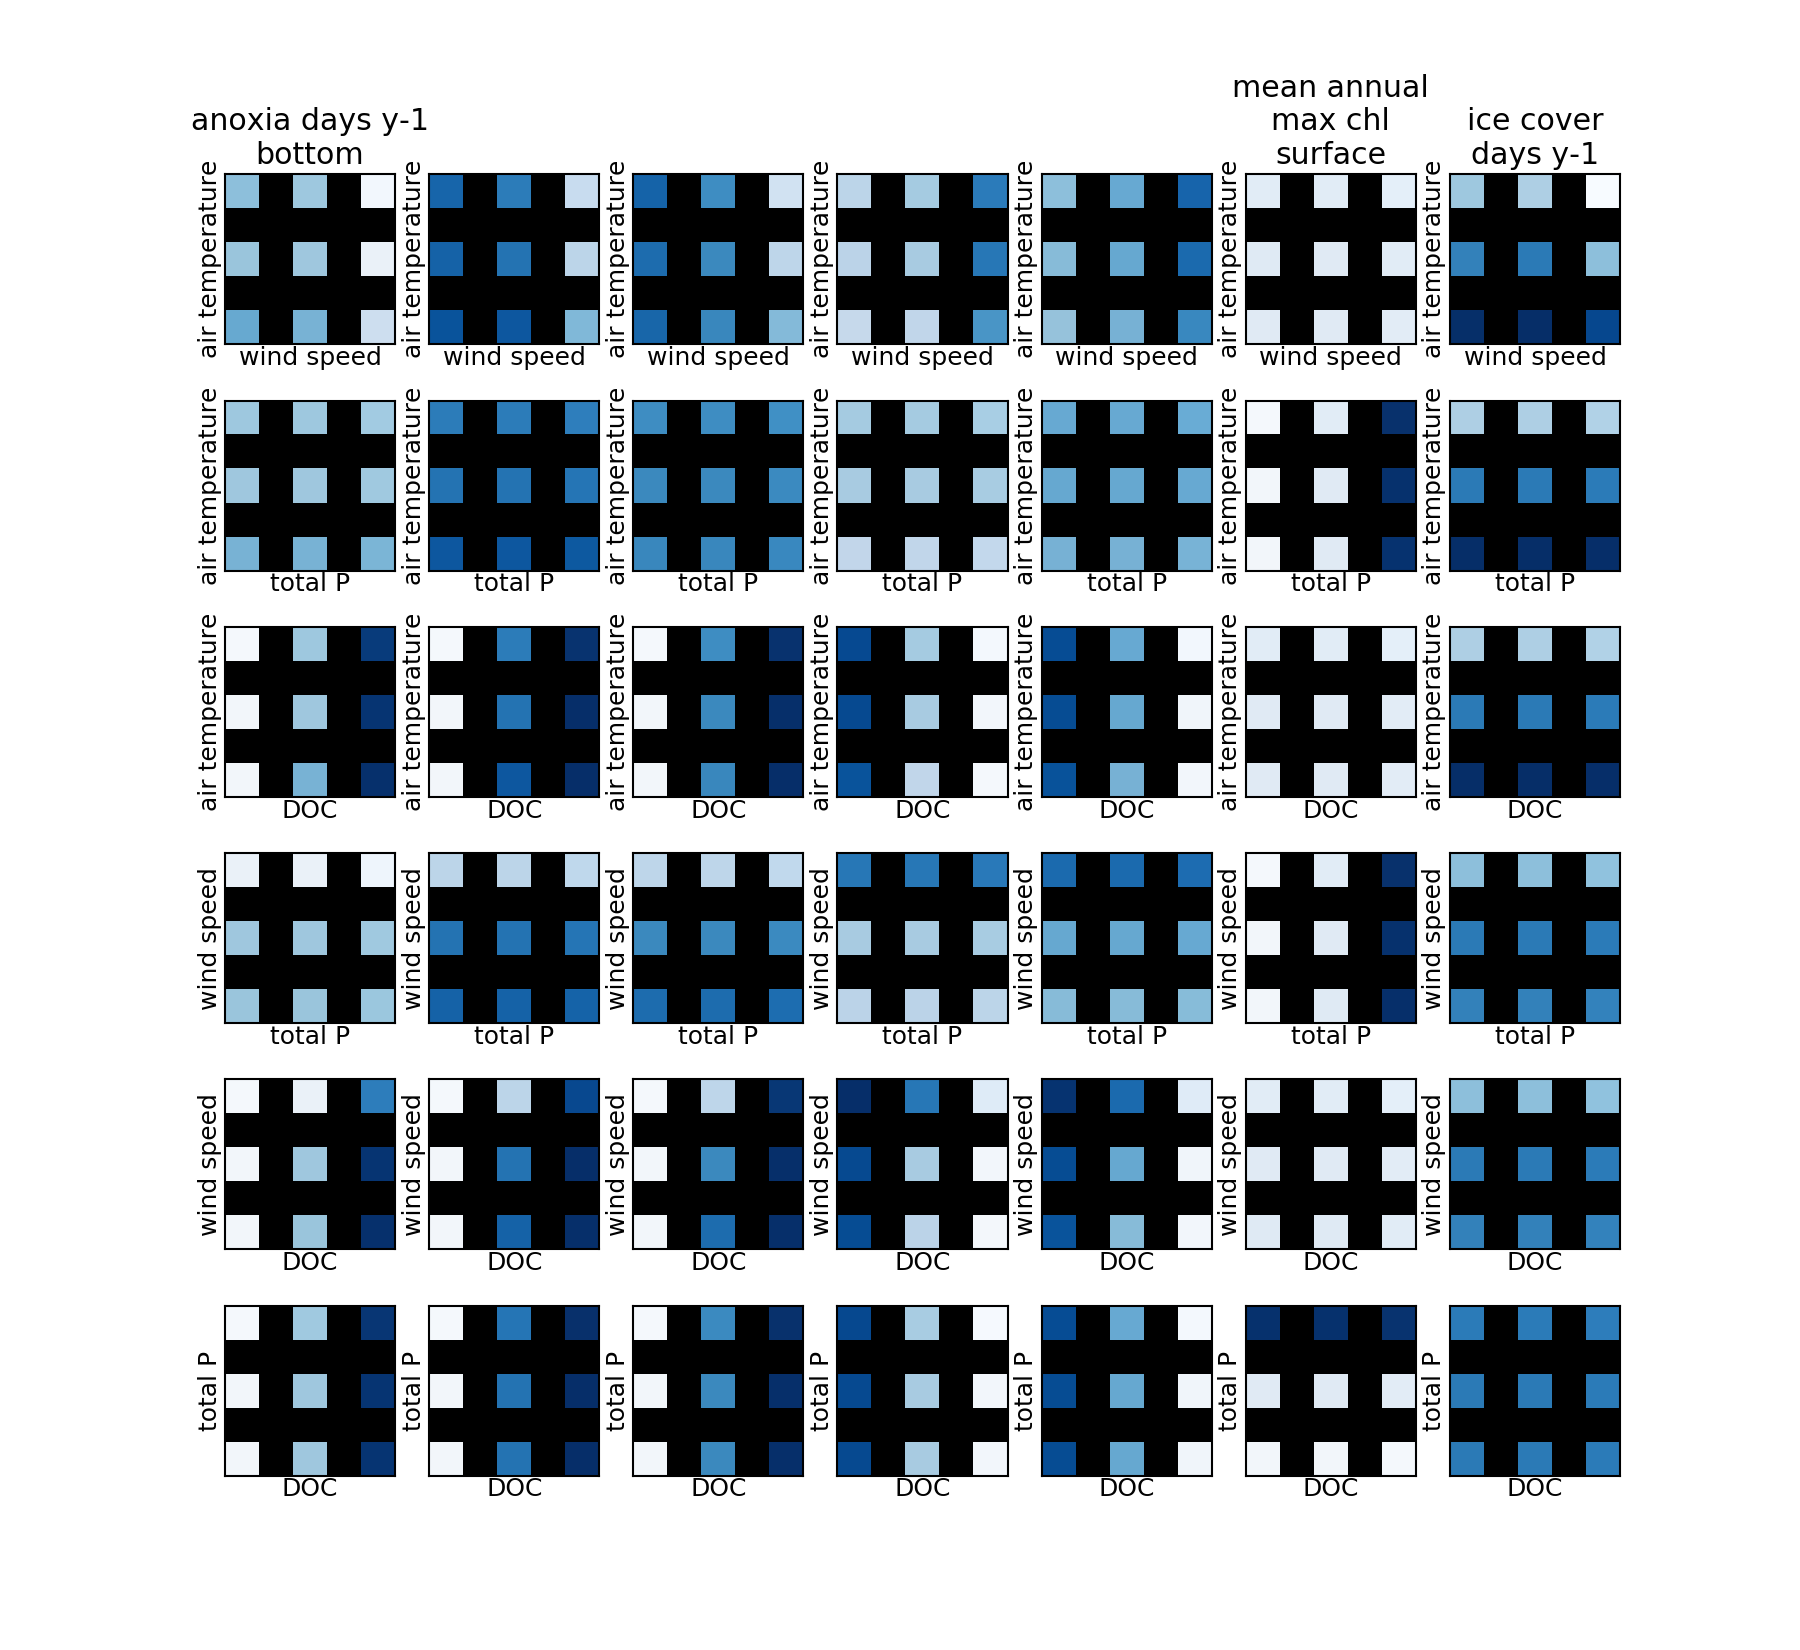
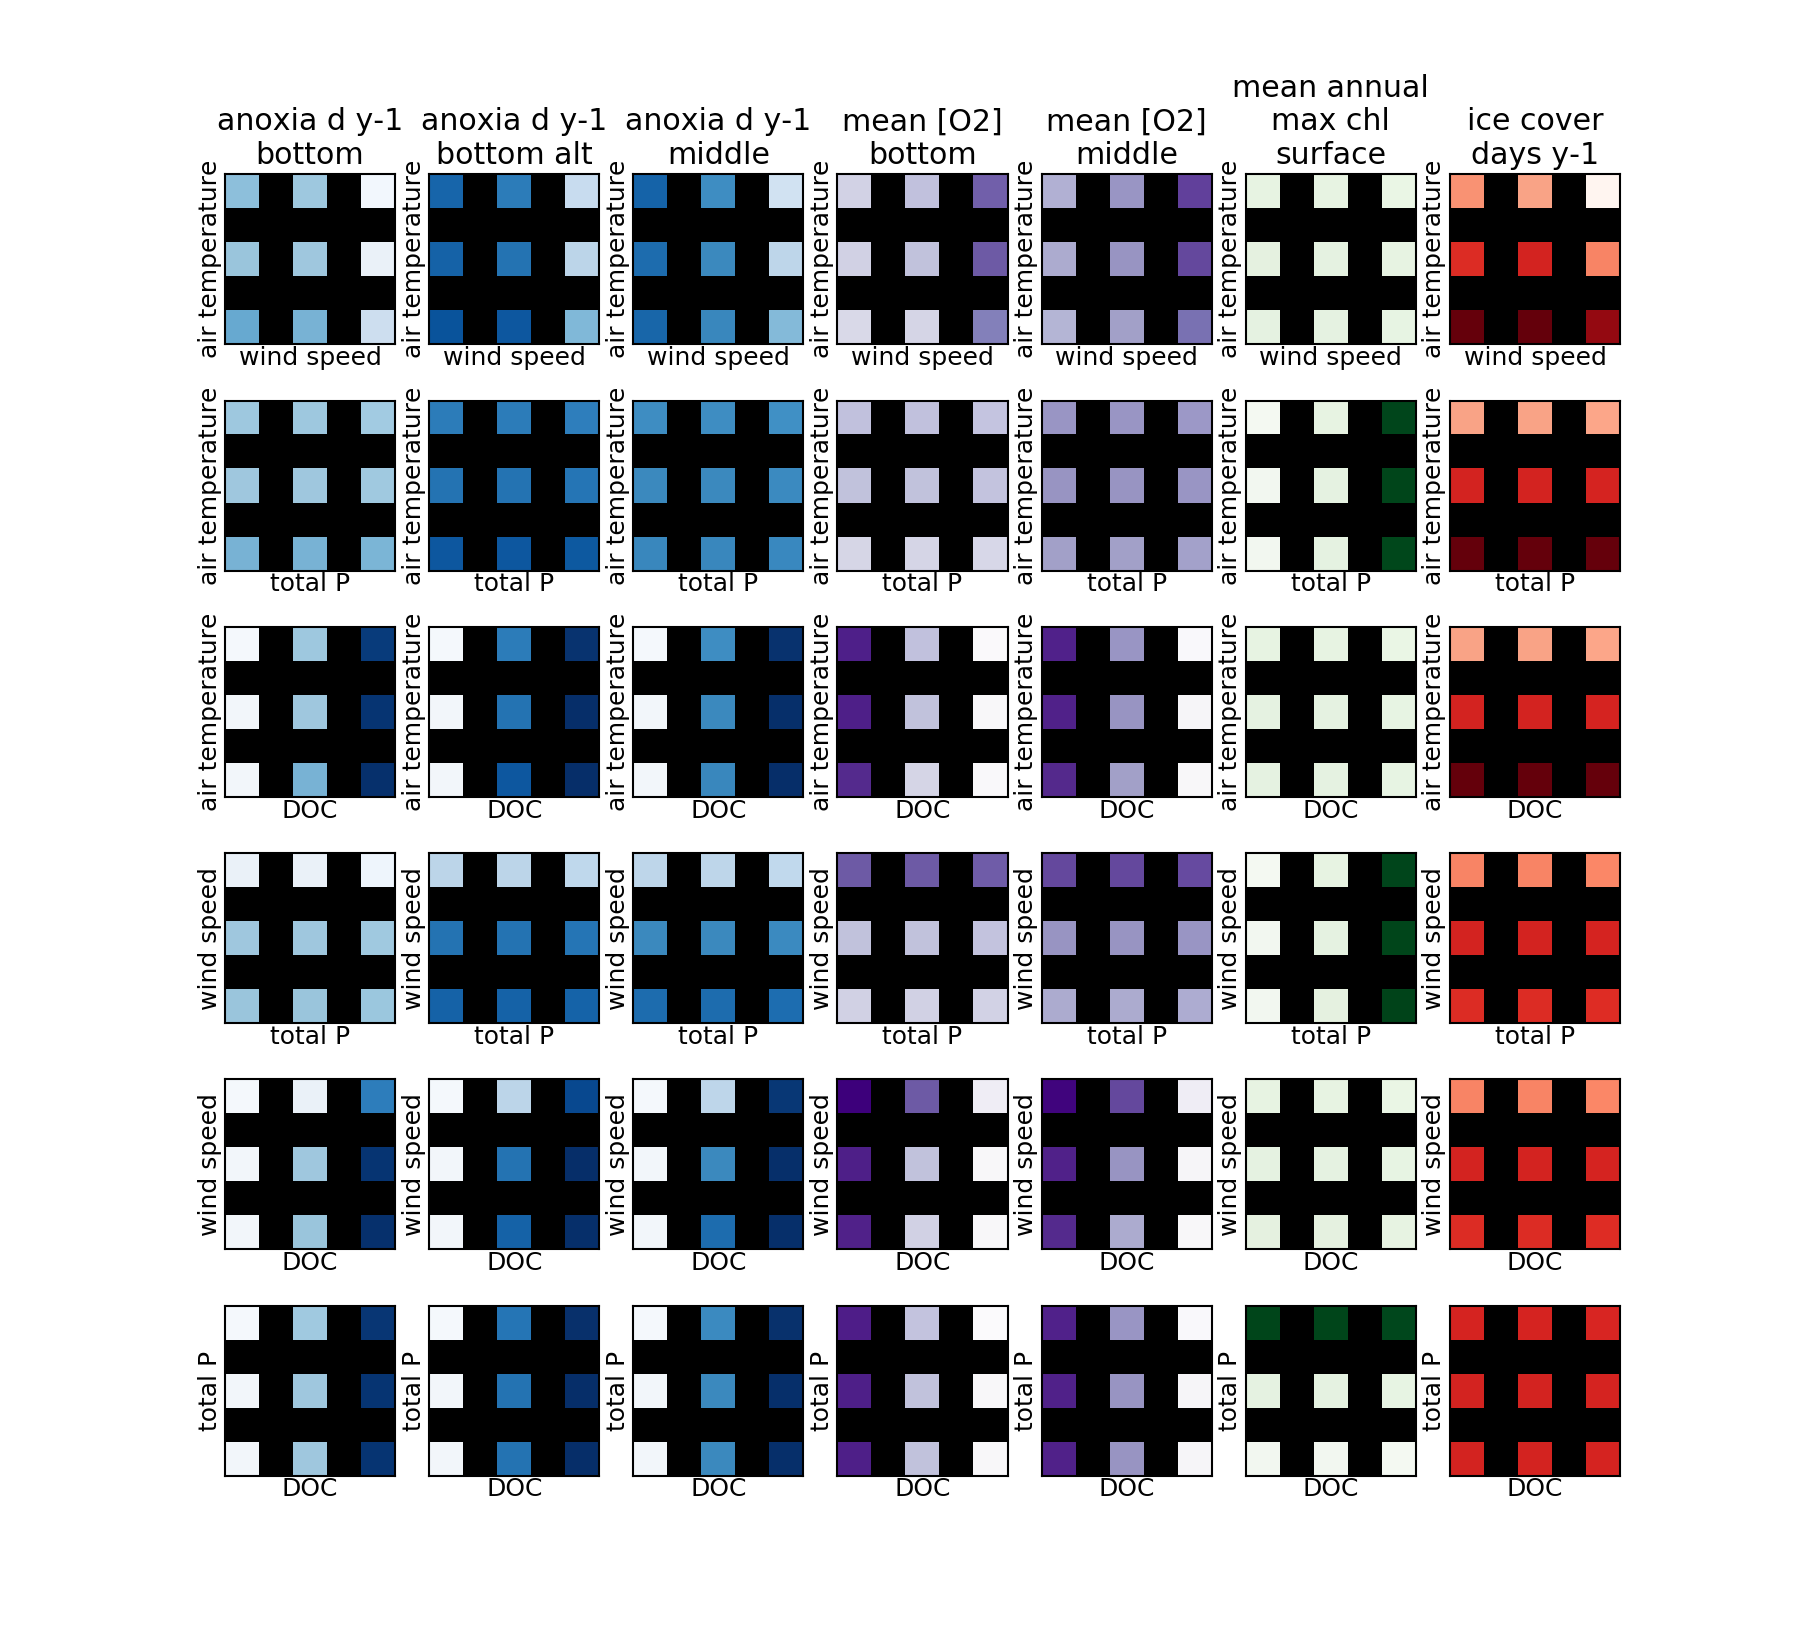
tidier pp.py

diff --git a/simulations/08_4dim_4res/postprocessing/pp.py b/simulations/08_4dim_4res/postprocessing/pp.py
@@ -30,10 +30,10 @@ m = np.zeros((n1, n2, n3, n4, nr), dtype=bool)
 d = pd.read_csv('../intermediate/parameterdict.csv')
 
 for i, x1, x2, x3, x4, id in d.itertuples():
-    if i % 100 == 100:
+    if i % 100 == 0:
         print(i)
     if not os.path.exists('../simulations/id/{:05d}/t.csv.bz2'.format(id)):
-        print(i, x1, x2, x3, x4, id)
+        # print(i, x1, x2, x3, x4, id)
         continue
 
     # if id == 573:
@@ -97,23 +97,6 @@ y = np.arange(5)
 X, Y = np.meshgrid(x, y)
 
 
-min0 = np.nanmin(a[:, :, :, :, 0])
-max0 = np.nanmax(a[:, :, :, :, 0])
-min1 = np.nanmin(a[:, :, :, :, 1])
-max1 = np.nanmax(a[:, :, :, :, 1])
-min2 = np.nanmin(a[:, :, :, :, 2])
-max2 = np.nanmax(a[:, :, :, :, 2])
-min3 = np.nanmin(a[:, :, :, :, 3])
-max3 = np.nanmax(a[:, :, :, :, 3])
-min4 = np.nanmin(a[:, :, :, :, 4])
-max4 = np.nanmax(a[:, :, :, :, 4])
-min5 = np.nanmin(a[:, :, :, :, 5])
-max5 = np.nanmax(a[:, :, :, :, 5])
-min6 = np.nanmin(a[:, :, :, :, 6])
-max6 = np.nanmax(a[:, :, :, :, 6])
-
-
-
 def rs(ax, thisa, cmapname, thismin, thismax, thisfmt, label1st, label2nd):
     img = ax.imshow(thisa, cmap=plt.get_cmap(cmapname), 
                     norm=matplotlib.colors.Normalize(thismin, thismax, True), 
@@ -125,100 +108,39 @@ def rs(ax, thisa, cmapname, thismin, thismax, thisfmt, label1st, label2nd):
     ax.text(2.0, -0.9, label2nd, ha='center', va='center') ; 
     ax.text(-0.6, 2.0, label1st, va='center', ha='right', rotation='vertical')
 
-    
+def plotrs6(rsi, nr, aa, colorcode, fmt, n) :
+    '''returns 6 axes'''
+    axes = [plt.subplot2grid((6, nr), (i, rsi)) for i in range(6)]
+    mi = np.nanmin(aa)
+    ma = np.nanmax(aa)
+    rs(axes[0], aa[:, :, 2, 2], colorcode, mi, ma, fmt, n[0], n[1])
+    rs(axes[1], aa[:, 2, :, 2], colorcode, mi, ma, fmt, n[0], n[2])
+    rs(axes[2], aa[:, 2, 2, :], colorcode, mi, ma, fmt, n[0], n[3]) 
+    rs(axes[3], aa[2, :, :, 2], colorcode, mi, ma, fmt, n[1], n[2])
+    rs(axes[4], aa[2, :, 2, :], colorcode, mi, ma, fmt, n[1], n[3])
+    rs(axes[5], aa[2, 2, :, :], colorcode, mi, ma, fmt, n[2], n[3])
+    return axes
+
 plt.clf()
 fig = plt.figure()
-a00 = plt.subplot2grid((6, nr), (0, 0))
-a01 = plt.subplot2grid((6, nr), (1, 0))
-a02 = plt.subplot2grid((6, nr), (2, 0))
-a03 = plt.subplot2grid((6, nr), (3, 0))
-a04 = plt.subplot2grid((6, nr), (4, 0))
-a05 = plt.subplot2grid((6, nr), (5, 0))
-a10 = plt.subplot2grid((6, nr), (0, 1))
-a11 = plt.subplot2grid((6, nr), (1, 1))
-a12 = plt.subplot2grid((6, nr), (2, 1))
-a13 = plt.subplot2grid((6, nr), (3, 1))
-a14 = plt.subplot2grid((6, nr), (4, 1))
-a15 = plt.subplot2grid((6, nr), (5, 1))
-a20 = plt.subplot2grid((6, nr), (0, 2))
-a21 = plt.subplot2grid((6, nr), (1, 2))
-a22 = plt.subplot2grid((6, nr), (2, 2))
-a23 = plt.subplot2grid((6, nr), (3, 2))
-a24 = plt.subplot2grid((6, nr), (4, 2))
-a25 = plt.subplot2grid((6, nr), (5, 2))
-a30 = plt.subplot2grid((6, nr), (0, 3))
-a31 = plt.subplot2grid((6, nr), (1, 3))
-a32 = plt.subplot2grid((6, nr), (2, 3))
-a33 = plt.subplot2grid((6, nr), (3, 3))
-a34 = plt.subplot2grid((6, nr), (4, 3))
-a35 = plt.subplot2grid((6, nr), (5, 3))
-a40 = plt.subplot2grid((6, nr), (0, 4))
-a41 = plt.subplot2grid((6, nr), (1, 4))
-a42 = plt.subplot2grid((6, nr), (2, 4))
-a43 = plt.subplot2grid((6, nr), (3, 4))
-a44 = plt.subplot2grid((6, nr), (4, 4))
-a45 = plt.subplot2grid((6, nr), (5, 4))
-a50 = plt.subplot2grid((6, nr), (0, 5))
-a51 = plt.subplot2grid((6, nr), (1, 5))
-a52 = plt.subplot2grid((6, nr), (2, 5))
-a53 = plt.subplot2grid((6, nr), (3, 5))
-a54 = plt.subplot2grid((6, nr), (4, 5))
-a55 = plt.subplot2grid((6, nr), (5, 5))
-a60 = plt.subplot2grid((6, nr), (0, 6))
-a61 = plt.subplot2grid((6, nr), (1, 6))
-a62 = plt.subplot2grid((6, nr), (2, 6))
-a63 = plt.subplot2grid((6, nr), (3, 6))
-a64 = plt.subplot2grid((6, nr), (4, 6))
-a65 = plt.subplot2grid((6, nr), (5, 6))
 
 n = ['air temperature', 'wind speed', 'total P', 'DOC']
 
-rs(a00, a[:, :, 2, 2, 0], 'Blues', min0, max0, '%.f', n[0], n[1])
-rs(a01, a[:, 2, :, 2, 0], 'Blues', min0, max0, '%.f', n[0], n[2])
-rs(a02, a[:, 2, 2, :, 0], 'Blues', min0, max0, '%.f', n[0], n[3]) 
-rs(a03, a[2, :, :, 2, 0], 'Blues', min0, max0, '%.f', n[1], n[2])
-rs(a04, a[2, :, 2, :, 0], 'Blues', min0, max0, '%.f', n[1], n[3])
-rs(a05, a[2, 2, :, :, 0], 'Blues', min0, max0, '%.f', n[2], n[3])
-rs(a10, a[:, :, 2, 2, 1], 'Blues', min1, max1, '%.f', n[0], n[1])
-rs(a11, a[:, 2, :, 2, 1], 'Blues', min1, max1, '%.f', n[0], n[2])
-rs(a12, a[:, 2, 2, :, 1], 'Blues', min1, max1, '%.f', n[0], n[3]) 
-rs(a13, a[2, :, :, 2, 1], 'Blues', min1, max1, '%.f', n[1], n[2])
-rs(a14, a[2, :, 2, :, 1], 'Blues', min1, max1, '%.f', n[1], n[3])
-rs(a15, a[2, 2, :, :, 1], 'Blues', min1, max1, '%.f', n[2], n[3])
-rs(a20, a[:, :, 2, 2, 2], 'Blues', min2, max2, '%.f', n[0], n[1])
-rs(a21, a[:, 2, :, 2, 2], 'Blues', min2, max2, '%.f', n[0], n[2])
-rs(a22, a[:, 2, 2, :, 2], 'Blues', min2, max2, '%.f', n[0], n[3]) 
-rs(a23, a[2, :, :, 2, 2], 'Blues', min2, max2, '%.f', n[1], n[2])
-rs(a24, a[2, :, 2, :, 2], 'Blues', min2, max2, '%.f', n[1], n[3])
-rs(a25, a[2, 2, :, :, 2], 'Blues', min2, max2, '%.f', n[2], n[3])
-rs(a30, a[:, :, 2, 2, 3], 'Blues', min3, max3, '%.f', n[0], n[1])
-rs(a31, a[:, 2, :, 2, 3], 'Blues', min3, max3, '%.f', n[0], n[2])
-rs(a32, a[:, 2, 2, :, 3], 'Blues', min3, max3, '%.f', n[0], n[3]) 
-rs(a33, a[2, :, :, 2, 3], 'Blues', min3, max3, '%.f', n[1], n[2])
-rs(a34, a[2, :, 2, :, 3], 'Blues', min3, max3, '%.f', n[1], n[3])
-rs(a35, a[2, 2, :, :, 3], 'Blues', min3, max3, '%.f', n[2], n[3])
-rs(a40, a[:, :, 2, 2, 4], 'Blues', min4, max4, '%.f', n[0], n[1])
-rs(a41, a[:, 2, :, 2, 4], 'Blues', min4, max4, '%.f', n[0], n[2])
-rs(a42, a[:, 2, 2, :, 4], 'Blues', min4, max4, '%.f', n[0], n[3]) 
-rs(a43, a[2, :, :, 2, 4], 'Blues', min4, max4, '%.f', n[1], n[2])
-rs(a44, a[2, :, 2, :, 4], 'Blues', min4, max4, '%.f', n[1], n[3])
-rs(a45, a[2, 2, :, :, 4], 'Blues', min4, max4, '%.f', n[2], n[3])
-rs(a50, a[:, :, 2, 2, 5], 'Blues', min5, max5, '%.f', n[0], n[1])
-rs(a51, a[:, 2, :, 2, 5], 'Blues', min5, max5, '%.f', n[0], n[2])
-rs(a52, a[:, 2, 2, :, 5], 'Blues', min5, max5, '%.f', n[0], n[3]) 
-rs(a53, a[2, :, :, 2, 5], 'Blues', min5, max5, '%.f', n[1], n[2])
-rs(a54, a[2, :, 2, :, 5], 'Blues', min5, max5, '%.f', n[1], n[3])
-rs(a55, a[2, 2, :, :, 5], 'Blues', min5, max5, '%.f', n[2], n[3])
-rs(a60, a[:, :, 2, 2, 6], 'Blues', min6, max6, '%.f', n[0], n[1])
-rs(a61, a[:, 2, :, 2, 6], 'Blues', min6, max6, '%.f', n[0], n[2])
-rs(a62, a[:, 2, 2, :, 6], 'Blues', min6, max6, '%.f', n[0], n[3]) 
-rs(a63, a[2, :, :, 2, 6], 'Blues', min6, max6, '%.f', n[1], n[2])
-rs(a64, a[2, :, 2, :, 6], 'Blues', min6, max6, '%.f', n[1], n[3])
-rs(a65, a[2, 2, :, :, 6], 'Blues', min6, max6, '%.f', n[2], n[3])
+aa0 = plotrs6(0, nr, a[:, :, :, :, 0], 'Blues', '%.f', n)
+aa1 = plotrs6(1, nr, a[:, :, :, :, 1], 'Blues', '%.f', n)
+aa2 = plotrs6(2, nr, a[:, :, :, :, 2], 'Blues', '%.f', n)
+aa3 = plotrs6(3, nr, a[:, :, :, :, 3], 'Purples', '%.f', n)
+aa4 = plotrs6(4, nr, a[:, :, :, :, 4], 'Purples', '%.f', n)
+aa5 = plotrs6(5, nr, a[:, :, :, :, 5], 'Greens', '%.f', n)
+aa6 = plotrs6(6, nr, a[:, :, :, :, 6], 'Reds', '%.f', n)
 
-a00.set_title('anoxia days y-1\nbottom')
-a50.set_title('mean annual\nmax chl\nsurface')
-a60.set_title('ice cover\ndays y-1')
+aa0[0].set_title('anoxia d y-1\nbottom')
+aa1[0].set_title('anoxia d y-1\nbottom alt')
+aa2[0].set_title('anoxia d y-1\nmiddle')
+aa3[0].set_title('mean [O2]\nbottom')
+aa4[0].set_title('mean [O2]\nmiddle')
+aa5[0].set_title('mean annual\nmax chl\nsurface')
+aa6[0].set_title('ice cover\ndays y-1')
 
 for ax in fig.get_axes():
     ax.get_xaxis().set_visible(False)
